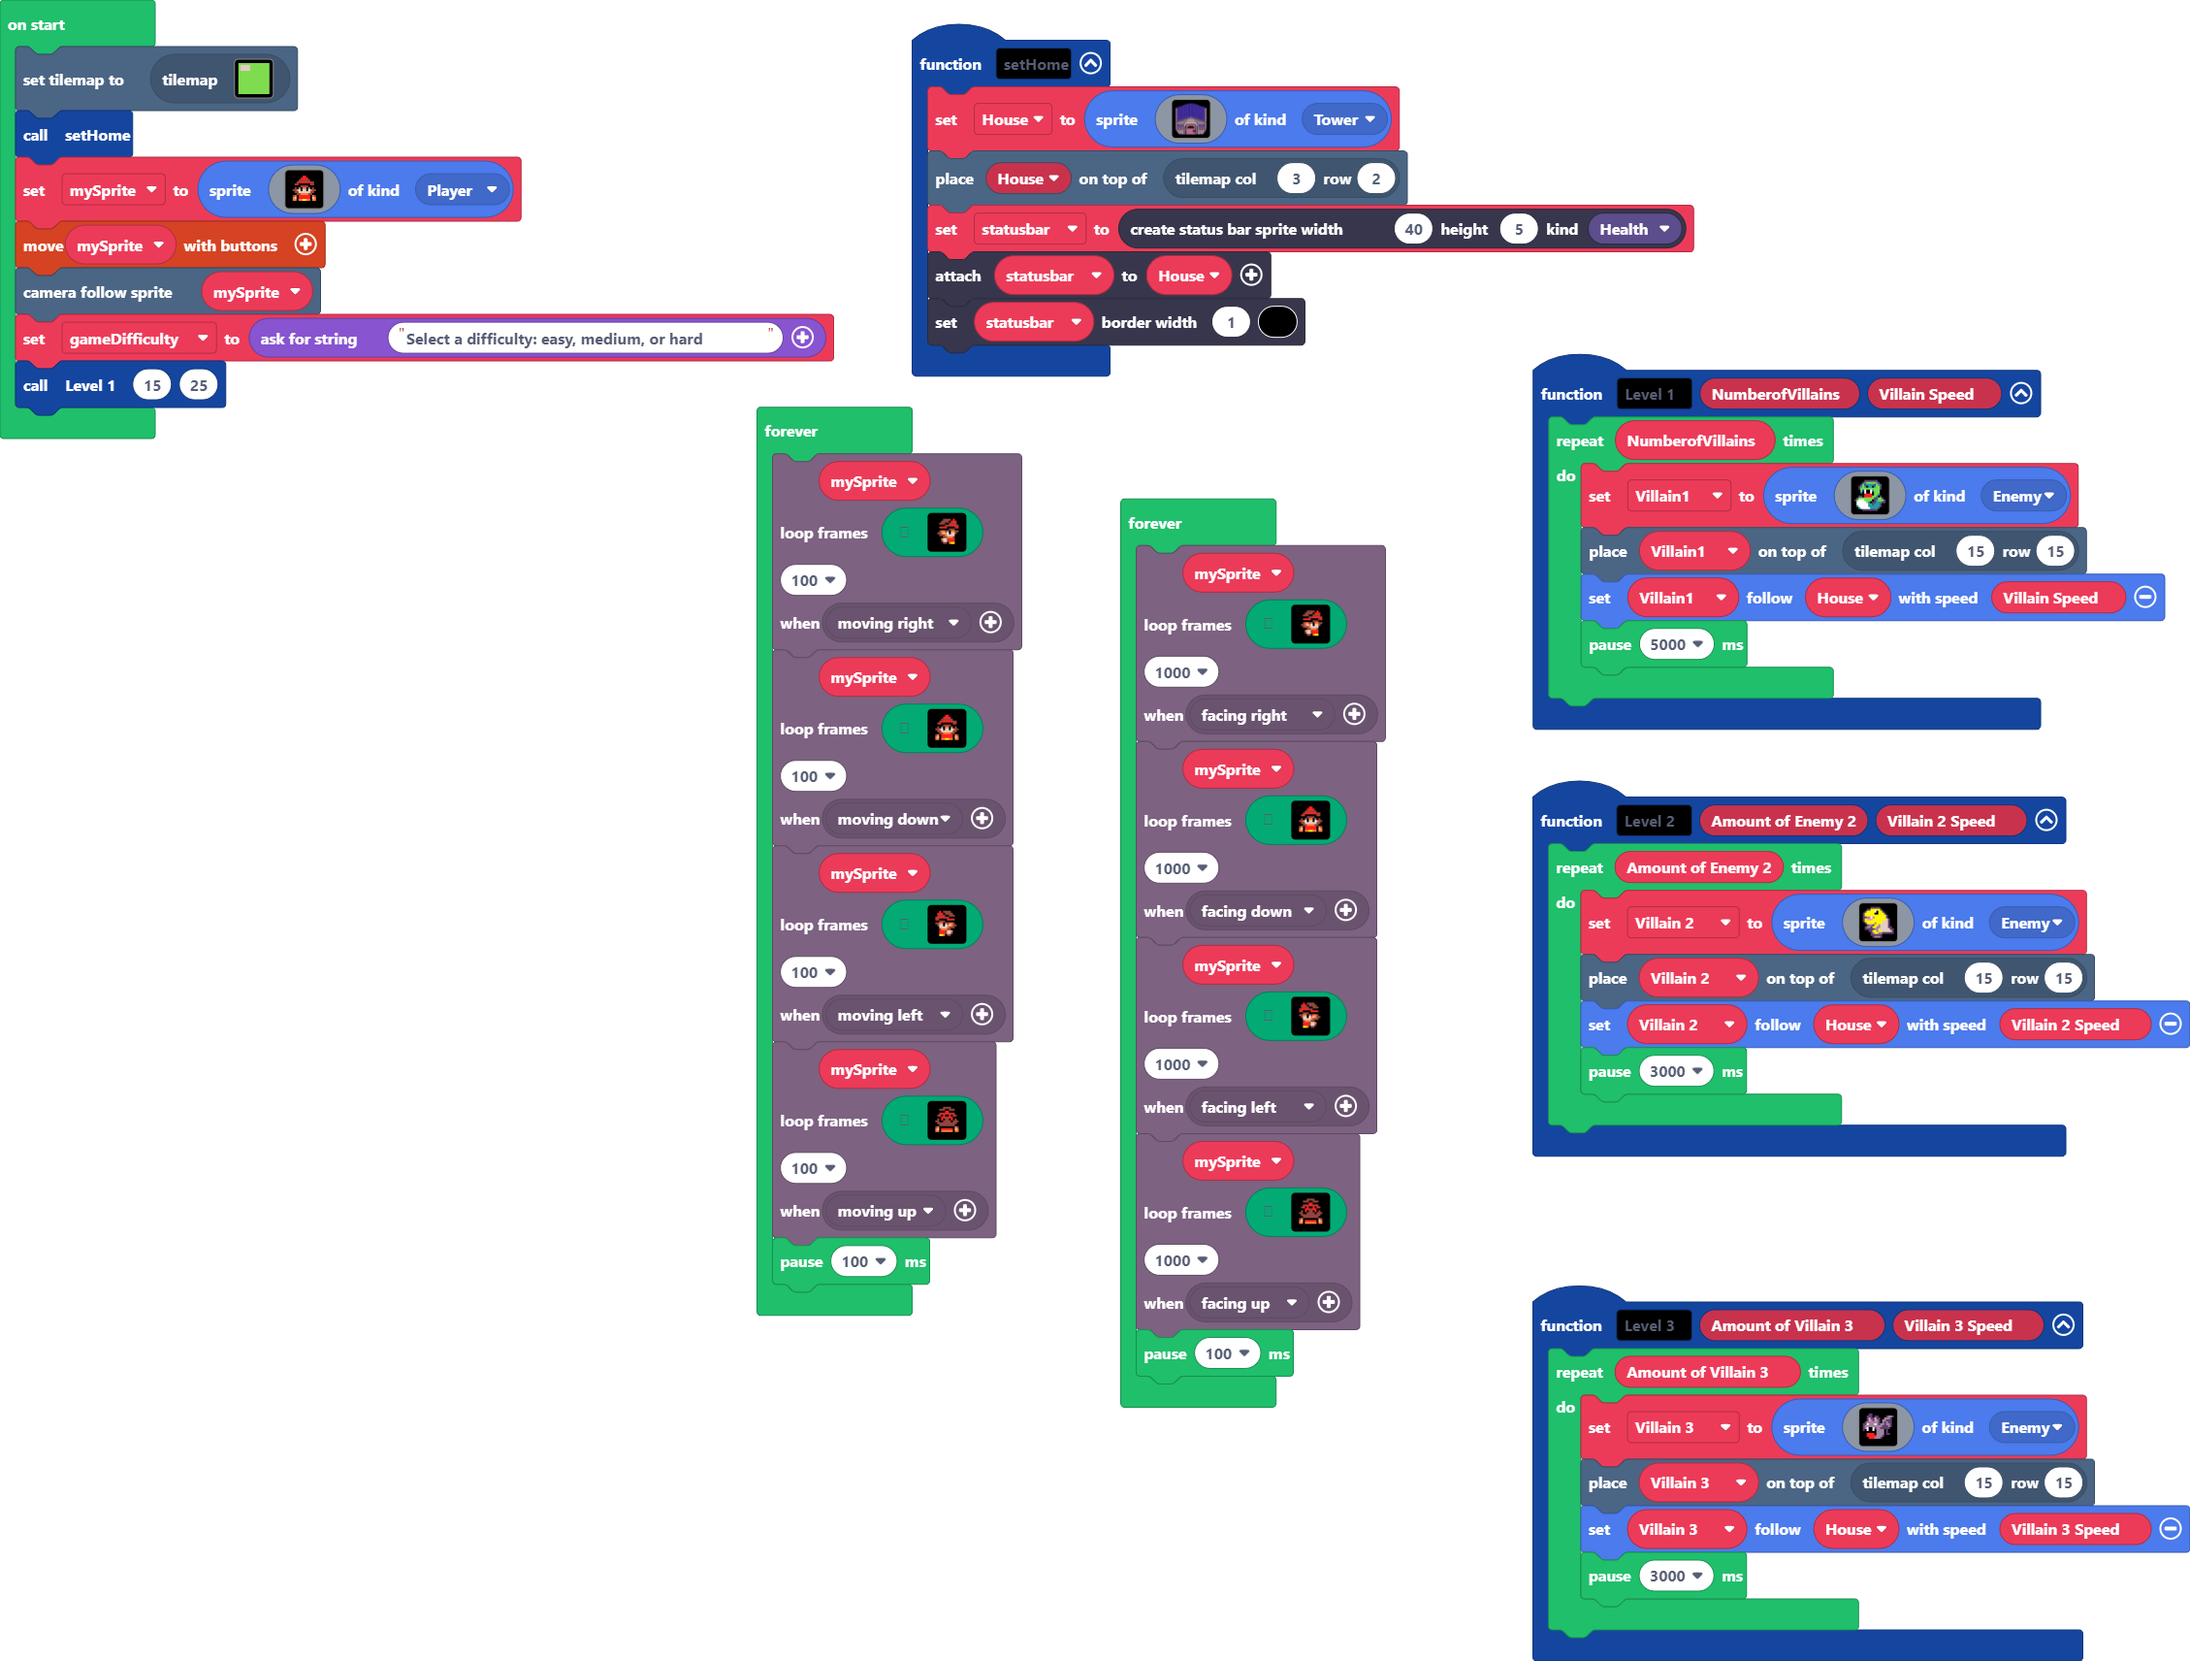
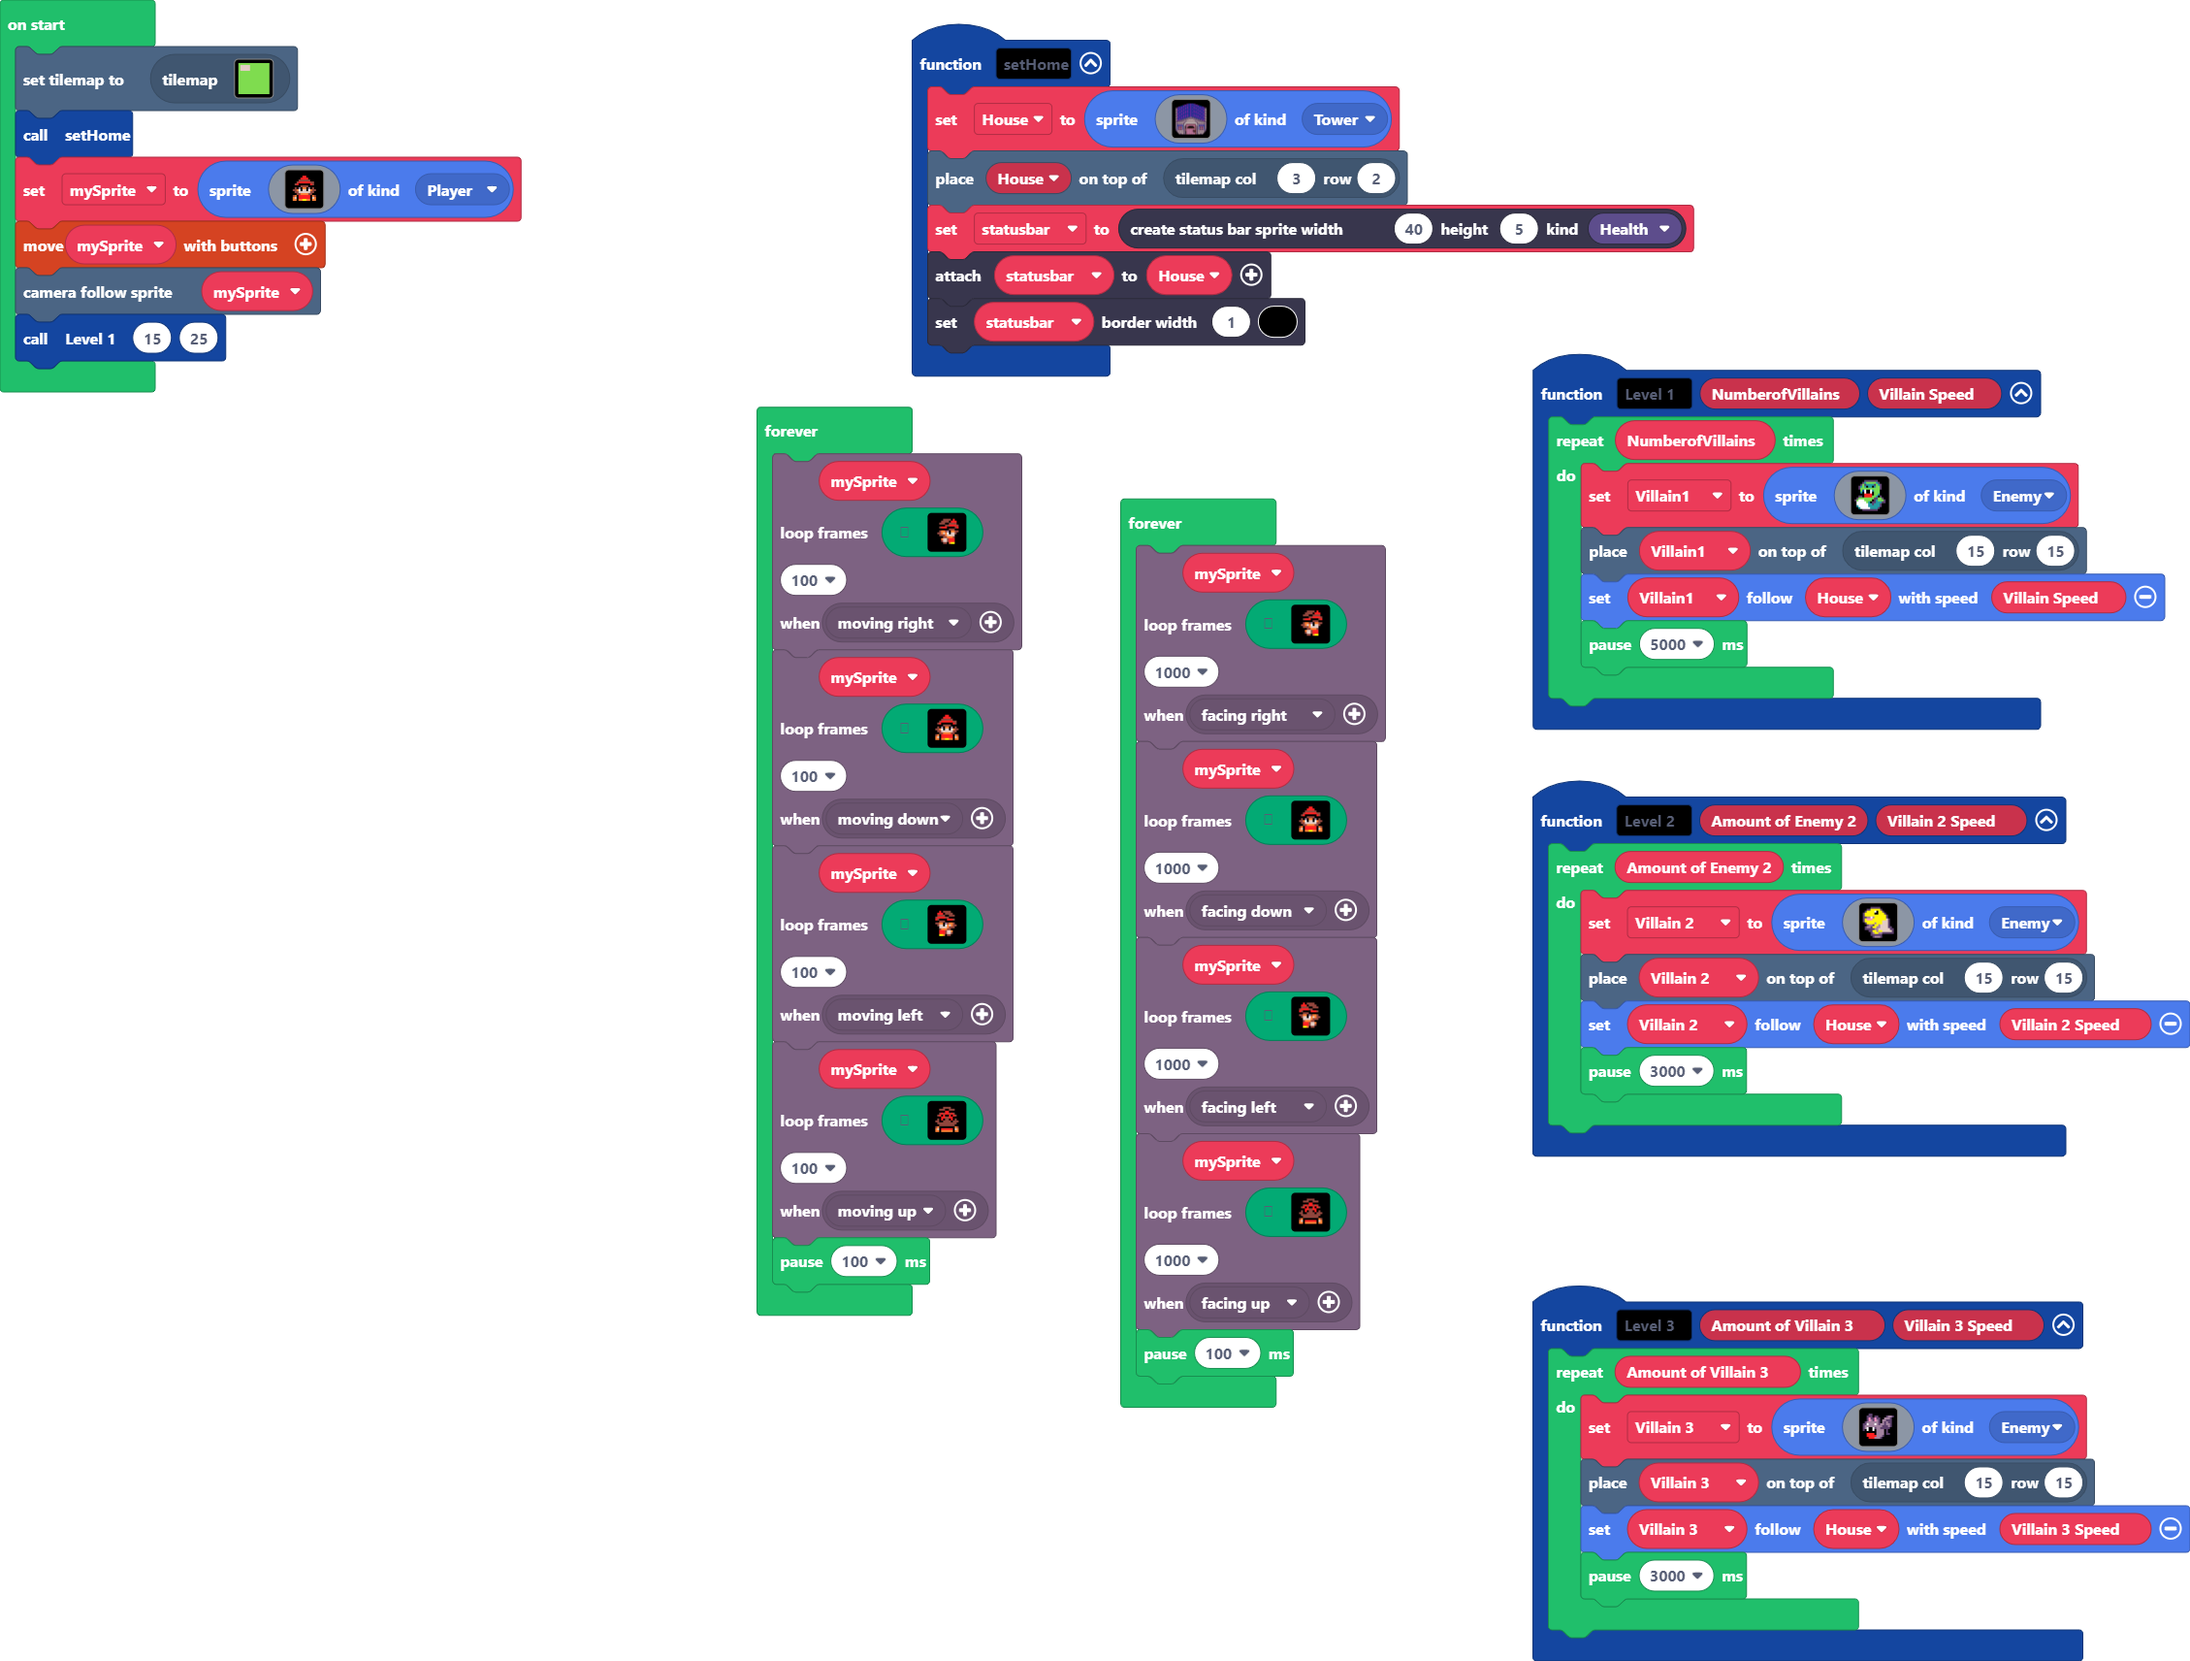
Update main.blocks, main.ts

Changed region(s): [[0.0, 0.1857, 0.403, 0.2786]]

diff --git a/main.ts b/main.ts
@@ -164,7 +164,6 @@ let mySprite = sprites.create(img`
     `, SpriteKind.Player)
 controller.moveSprite(mySprite)
 scene.cameraFollowSprite(mySprite)
-let gameDifficulty = game.askForString("Select a difficulty: easy, medium, or hard")
 Level_1(15, 25)
 forever(function () {
     characterAnimations.loopFrames(
